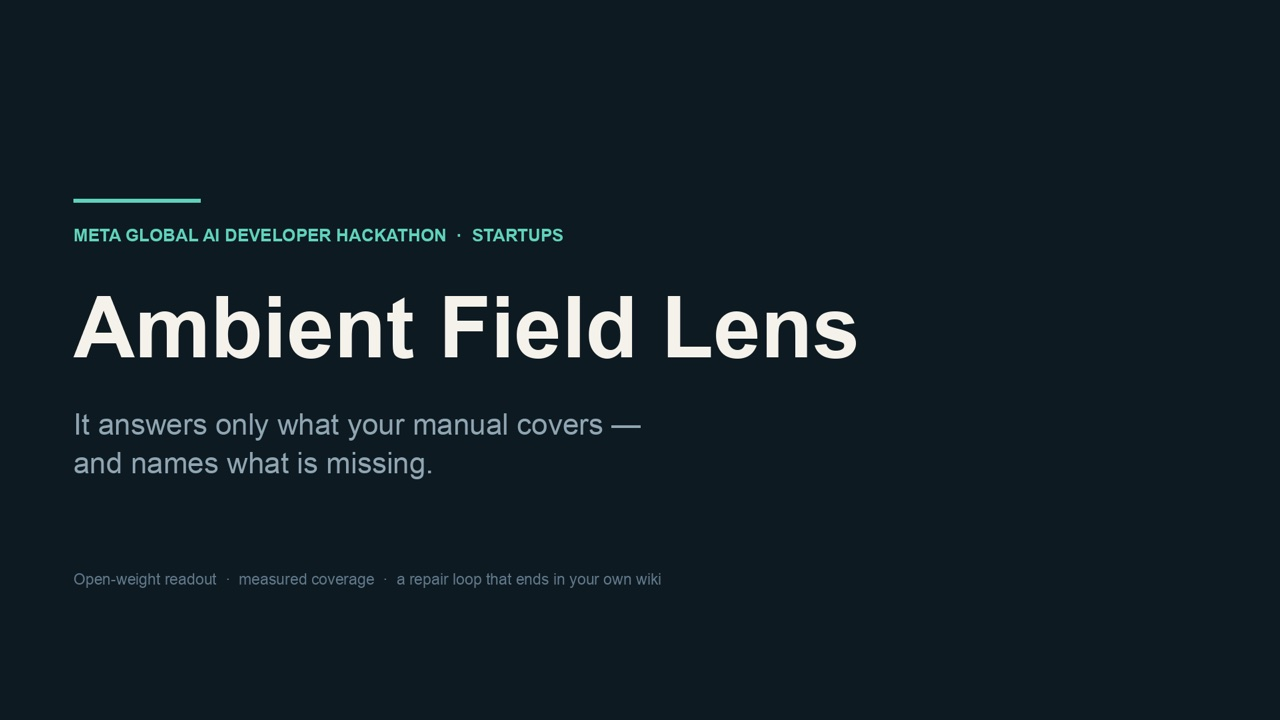
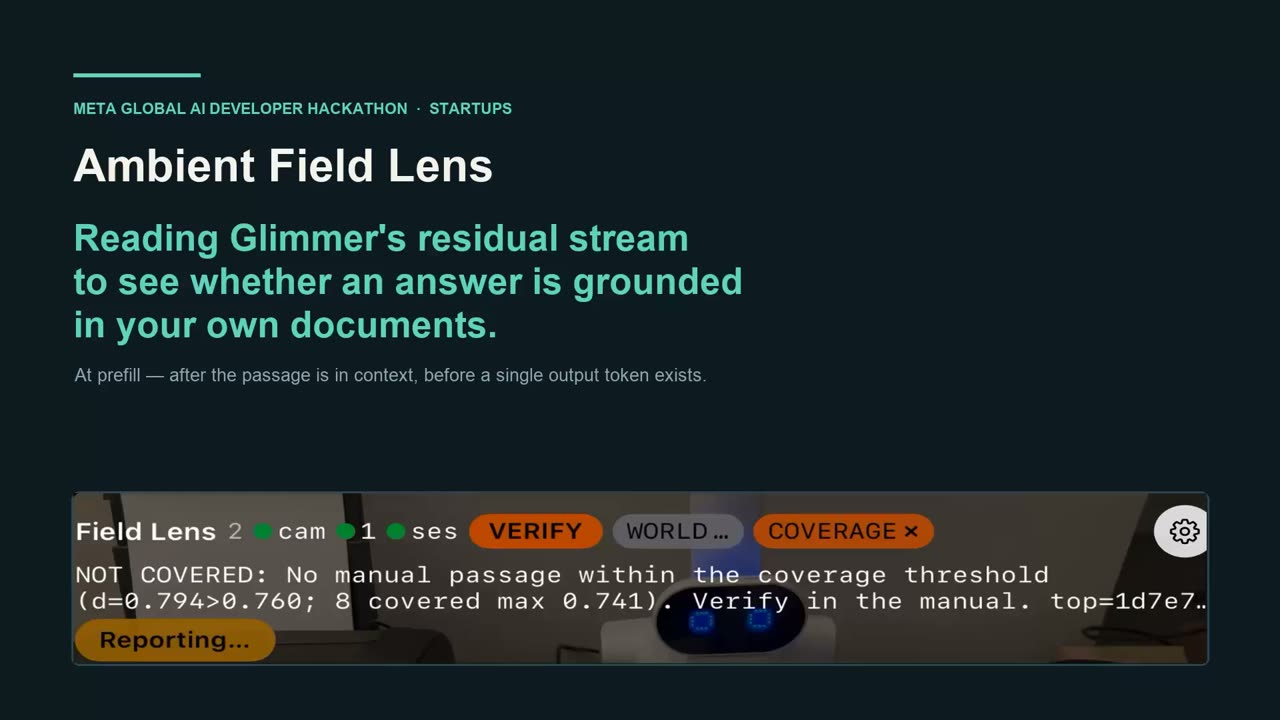
Submission page: cut the film heading and the figures strip, add the repo link
Miguel's review, 2026-11-03:

- The film section led with "Two minutes fifty-eight, shot live." and a
  paragraph about the footage. Both said less than the player below them, so
  the eyebrow now runs straight into the video.
- The four-number strip in the hero (0.760, 0.820 -> 0.400, 38 -> 39, 0) added
  nothing the sections below do not measure properly, and on a phone it pushed
  the navigation buttons a full screen down. Removed, with its now-dead CSS.
- Added "Code on GitHub" to the hero buttons.

The player's poster frame was still the old title card, the one carrying a
subtitle the film no longer uses. It is now frame 0 of the cut that shipped,
with a cache-busting query because the edge was serving the stale JPEG.

Changed region(s): [[0.0312, 0.5806, 0.9688, 0.9472], [0.0625, 0.0917, 0.6875, 0.55]]

diff --git a/web/index.html b/web/index.html
@@ -55,11 +55,6 @@ header.hero{padding-top:clamp(56px,11vh,120px);padding-bottom:clamp(40px,7vh,72p
 .cta a.primary{background:var(--accent);color:#fff;border-color:var(--accent)}
 .cta a:hover{border-color:var(--accent)}
 
-.figures{display:grid;grid-template-columns:repeat(auto-fit,minmax(150px,1fr));gap:1px;background:var(--line);
-  border:1px solid var(--line);border-radius:16px;overflow:hidden;margin:44px 0 0}
-.fig{background:var(--bg);padding:18px 20px}
-.fig b{display:block;font:600 30px/1.1 var(--mono);color:var(--accent);letter-spacing:-.02em}
-.fig span{display:block;font-size:13px;color:var(--muted);margin-top:6px}
 
 /* ---------- sections ---------- */
 section{padding:clamp(48px,9vh,96px) 0}
@@ -208,9 +203,6 @@ footer .links{display:flex;flex-wrap:wrap;gap:8px 20px;margin-bottom:22px;font-s
   .step{align-items:flex-end;padding-bottom:2svh}
   .card{width:100%;padding:16px 18px}
   .card p{font-size:15.5px}
-  /* One headline number per row: "0.820 -> 0.400" does not fit a half-width
-     cell at this size and was being clipped mid-number. */
-  .figures{grid-template-columns:1fr}
   .shots{display:none}
   .mshots{display:block;margin-top:30px}
   .mshot{margin:0 0 18px;border:1px solid var(--line);border-radius:14px;overflow:hidden;
@@ -244,18 +236,12 @@ footer .links{display:flex;flex-wrap:wrap;gap:8px 20px;margin-bottom:22px;font-s
     <span class="badge">Chroma</span>
   </div>
 
-  <div class="figures">
-    <div class="fig"><b>0.760</b><span>coverage gate, calibrated over 13 labelled questions</span></div>
-    <div class="fig"><b>0.820&nbsp;→&nbsp;0.400</b><span>same question, after a human wrote the missing passage</span></div>
-    <div class="fig"><b>38&nbsp;→&nbsp;39</b><span>corpus records. Nothing retrained</span></div>
-    <div class="fig"><b>0</b><span>green steps the system has ever emitted</span></div>
-  </div>
-
   <div class="cta">
     <a class="primary" href="#video">Watch the film</a>
     <a href="#loop">See how it works</a>
     <a href="#evidence">The evidence</a>
     <a href="#limits">What it does not do</a>
+    <a href="https://github.com/UrsushoribilisMusic/ambient-field-lens" rel="noopener">Code on GitHub</a>
   </div>
 </header>
 
@@ -265,14 +251,11 @@ footer .links{display:flex;flex-wrap:wrap;gap:8px 20px;margin-bottom:22px;font-s
 <section id="video">
   <div class="wrap">
     <p class="eyebrow">The submission film</p>
-    <h2>Two minutes fifty-eight, shot live.</h2>
-    <p class="lede">Every card, console and phone screen in it is real footage from the shoot — including the
-    refusals, and the one report that failed to file.</p>
     <div class="vwrap" id="vwrap">
       <button class="vfacade" id="vfacade" type="button" aria-label="Play the Ambient Field Lens submission film">
-        <img src="img/video-poster.jpg" alt="Title card reading Ambient Field Lens">
+        <img src="img/video-poster.jpg?v=2" alt="Title card: Ambient Field Lens — reading Glimmer's residual stream to see whether an answer is grounded in your own documents">
         <span class="vplay" aria-hidden="true"></span>
-        <span class="vsoon" id="vsoon">Publishing to YouTube before submission — this player goes live with it</span>
+        <span class="vsoon" id="vsoon">2:59 · click to play</span>
       </button>
     </div>
   </div>
@@ -768,7 +751,7 @@ footer .links{display:flex;flex-wrap:wrap;gap:8px 20px;margin-bottom:22px;font-s
 
   /* ---------- the film: click-to-load facade, no YouTube until asked ----------
      Set YT_ID to the video id once it is published; nothing else changes. */
-  const YT_ID = "";
+  const YT_ID = "H1f1R8UuIqM";
   (() => {
     const fac = document.getElementById("vfacade"), soon = document.getElementById("vsoon");
     if (!fac) return;
